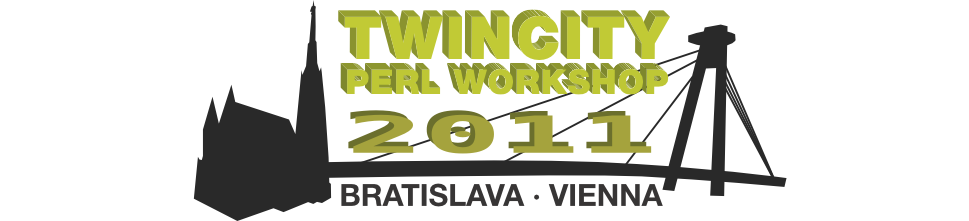
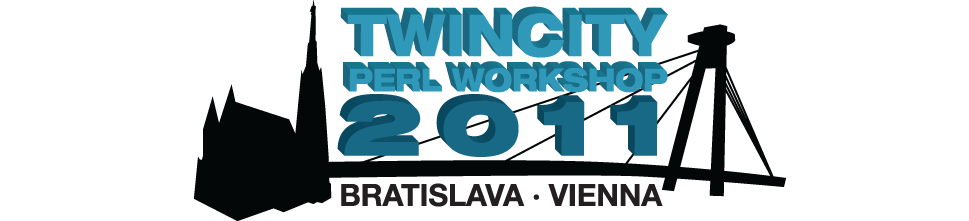
color change from maros

diff --git a/wwwdocs/tcpw2011/css/main.css b/wwwdocs/tcpw2011/css/main.css
@@ -25,7 +25,7 @@ LI {
 }
 
 #container A:Hover {
-	background-color: #b9c334;
+	background-color: #3099ba;
 	color: black;
 }
 
@@ -51,7 +51,7 @@ A IMG {
 }
 
 #menu {
-	background-color: #b9c334;
+	background-color: #3099ba;
 	float: left;
 	position: relative;
 	width: 200px;
@@ -104,7 +104,7 @@ A IMG {
 
 
 .menu_item A:Link, .menu_item A:Visited, .menu_item A:Active {
-	color: #949d17;
+	color: #186986;
 	background: none;
 }
 
@@ -122,19 +122,19 @@ A IMG {
 }
 
 H1 {
-	color: #949d17;
+	color: #186986;
 	border-bottom: 1px solid #535353;
 }
 H2 {
-	color: #949d17;
+	color: #186986;
 	font-size: 1.45em;
 }
 H3 {
-	color: #949d17;
+	color: #186986;
 	font-size: 1.2em;
 }
 H4 {
-	color: #949d17;
+	color: #186986;
 	font-size: 1.1em;
 }
 
